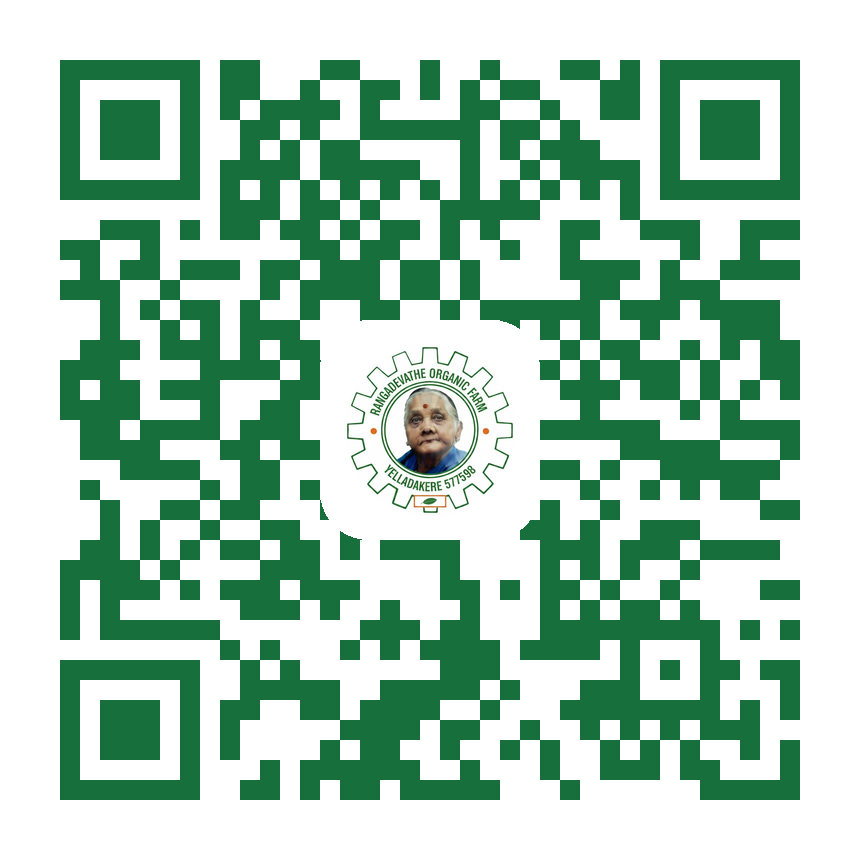
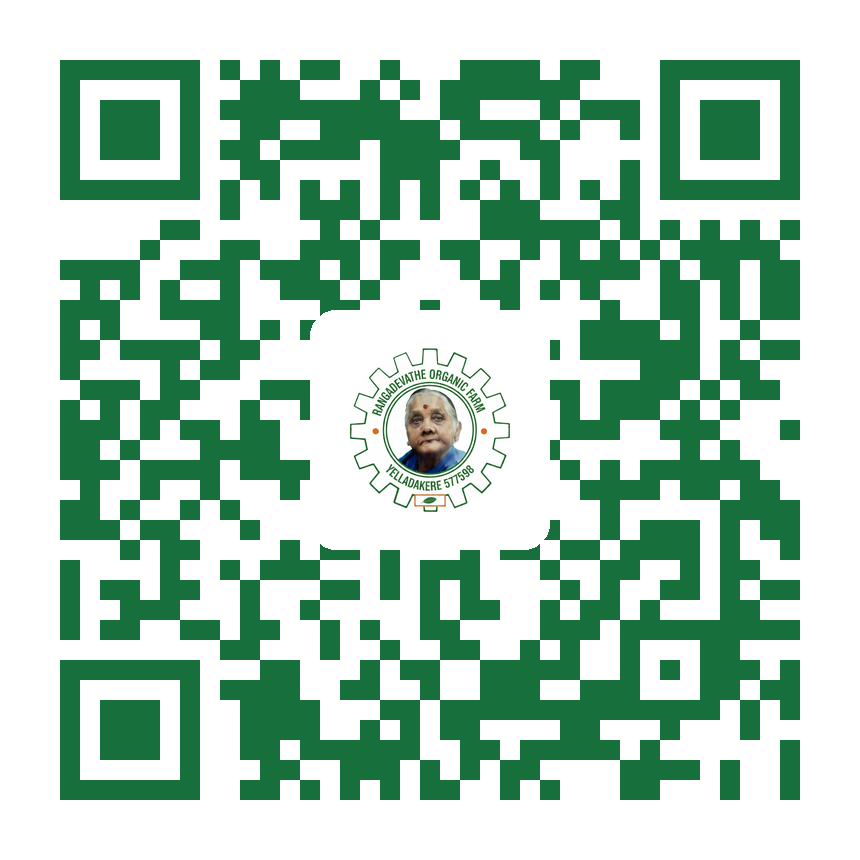
Move site URL to rangadevate-farm-fresh.netlify.app
The Netlify site was renamed from sparkling-syrniki-378605 to
rangadevate-farm-fresh. All four hardcoded URLs in <head> -
canonical, og:url, og:image and twitter:image - now point there.
The README previously said there were three; there are four, and it
now lists each one.

Note the subdomain spells the farm "rangadevate", without the h,
while the registered name on the PGS certificate and the seal is
"Rangadevathe". This was raised and keeping it was the call made.

qr-farm.png regenerated for the new URL, rebuilt to the original's
exact geometry: 860x860, QR version 5 (37 modules), 20px modules,
3-module quiet zone, brand green #17703C, 240px rounded white
knockout, 166px circular seal dead centre, error correction level H.
Decode-verified from 860px down to 160px across lanczos, bicubic and
box resampling; the previous code was only verified to 200px.

Netlify does not redirect a released subdomain, so any QR printed
from the old file is now dead and needs reprinting.

Catalogue prices are deliberately left as placeholders, to be set
against market rates later.

Claude-Session: https://claude.ai/code/session_01CsoRykESgbkGzDfyaBjC21

Changed region(s): [[0.0605, 0.0605, 0.9372, 0.9372]]

diff --git a/index.html b/index.html
@@ -13,20 +13,20 @@
 <!-- Link preview (WhatsApp / Facebook / X).
      og:image and og:url MUST be absolute. If the site is renamed or moved to a
      custom domain, update all three URLs below to match. -->
-<link rel="canonical" href="https://sparkling-syrniki-378605.netlify.app/">
+<link rel="canonical" href="https://rangadevate-farm-fresh.netlify.app/">
 <meta property="og:type" content="website">
 <meta property="og:site_name" content="Rangadevathe Organic Farm Fresh">
 <meta property="og:title" content="Rangadevathe Organic Farm Fresh">
 <meta property="og:description" content="PGS-India Green certified produce — coconut, areca, banana, mango, pepper and cut flowers grown without synthetic fertiliser or chemical pesticide at Yelladakere, Hiriyur Taluk, Chitradurga District, Karnataka.">
-<meta property="og:url" content="https://sparkling-syrniki-378605.netlify.app/">
-<meta property="og:image" content="https://sparkling-syrniki-378605.netlify.app/logo.jpg">
+<meta property="og:url" content="https://rangadevate-farm-fresh.netlify.app/">
+<meta property="og:image" content="https://rangadevate-farm-fresh.netlify.app/logo.jpg">
 <meta property="og:image:width" content="587">
 <meta property="og:image:height" content="600">
 <meta property="og:image:alt" content="Rangadevathe Organic Farm seal, Yelladakere 577598">
 <meta name="twitter:card" content="summary_large_image">
 <meta name="twitter:title" content="Rangadevathe Organic Farm Fresh">
 <meta name="twitter:description" content="PGS-India Green certified produce — coconut, areca, banana, mango, pepper and cut flowers grown without synthetic fertiliser or chemical pesticide at Yelladakere, Hiriyur Taluk, Chitradurga District, Karnataka.">
-<meta name="twitter:image" content="https://sparkling-syrniki-378605.netlify.app/logo.jpg">
+<meta name="twitter:image" content="https://rangadevate-farm-fresh.netlify.app/logo.jpg">
 
 <style>
   /* minimal reset — the artifact host normally supplies this */

diff --git a/README.md b/README.md
@@ -32,13 +32,26 @@ Two things live at the top of the `<script>` block near the bottom of `index.htm
 - **`PRODUCTS`** — the catalogue. Each entry carries its price, unit, season and
   description. Prices are in rupees.
 
-After the site has a real URL, update the two link-preview lines in `<head>` so
-WhatsApp and Facebook show the farm seal:
+**The site URL is hardcoded in four places** in `<head>` and they must all agree, or
+link previews and search canonicalisation break:
 
 ```html
-<meta property="og:image" content="https://YOUR-SITE.netlify.app/logo.jpg">
-<meta name="twitter:image" content="https://YOUR-SITE.netlify.app/logo.jpg">
+<link rel="canonical"        href="https://rangadevate-farm-fresh.netlify.app/">
+<meta property="og:url"   content="https://rangadevate-farm-fresh.netlify.app/">
+<meta property="og:image" content="https://rangadevate-farm-fresh.netlify.app/logo.jpg">
+<meta name="twitter:image" content="https://rangadevate-farm-fresh.netlify.app/logo.jpg">
 ```
+
+If the site is ever renamed again or moved to a custom domain, change all four **and**
+regenerate `qr-farm.png` — it encodes the URL and will otherwise point at a dead host.
+
+## The QR code
+
+`qr-farm.png` encodes `https://rangadevate-farm-fresh.netlify.app` for gate and stall use.
+860x860, QR version 5 (37 modules), 20px modules, 3-module quiet zone, brand green
+`#17703C`, with a 240px rounded knockout carrying the farm seal. Error correction is
+level H, which is what lets the seal sit over the middle. Decode-verified down to 160px
+across lanczos, bicubic and box resampling.
 
 ## A note on certification
 
